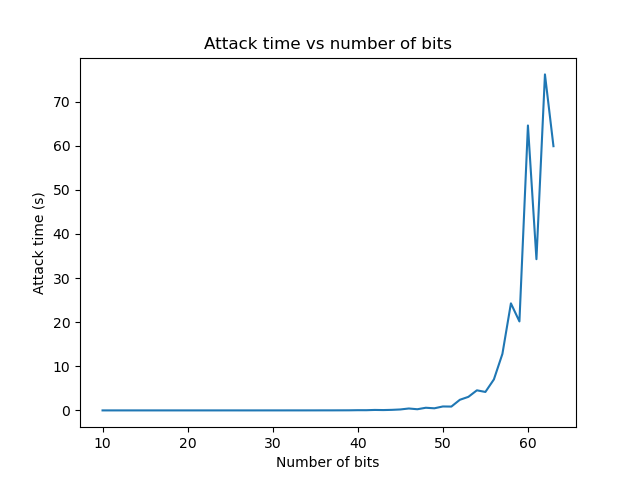
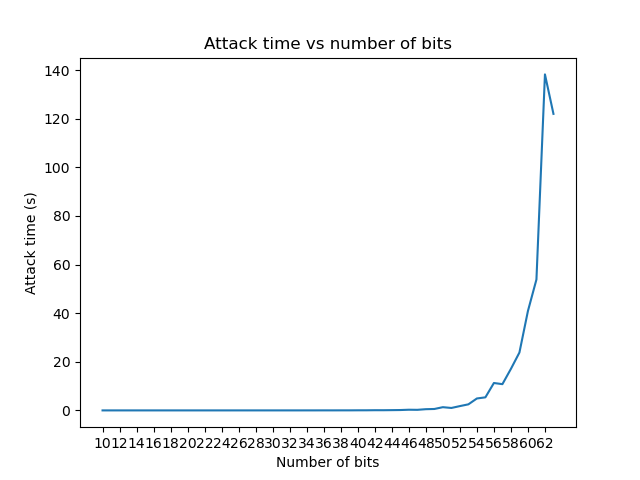
feat:updated graphs

diff --git a/analysis.py b/analysis.py
@@ -134,15 +134,16 @@ def factorization_analysis():
     plt.title("Attack time vs number of bits")
     plt.xlabel("Number of bits")
     plt.ylabel("Attack time (s)")
+    plt.xticks(range(10, 64, 2))
     # save the plot
     plt.savefig("attack_time.png")
 
 
 def main():
     """Main function"""
-    encryption_decryption_analysis()
-    # brute_force_analysis()
-    factorization_analysis()
+    # encryption_decryption_analysis()
+    brute_force_analysis()
+    # factorization_analysis()
 
 
 if __name__ == "__main__":

diff --git a/chat.py b/chat.py
@@ -1,6 +1,6 @@
 # creating chatting server client using socket programming
-import socket
 import RSA
+import socket
 import pickle
 
 # create socket object
